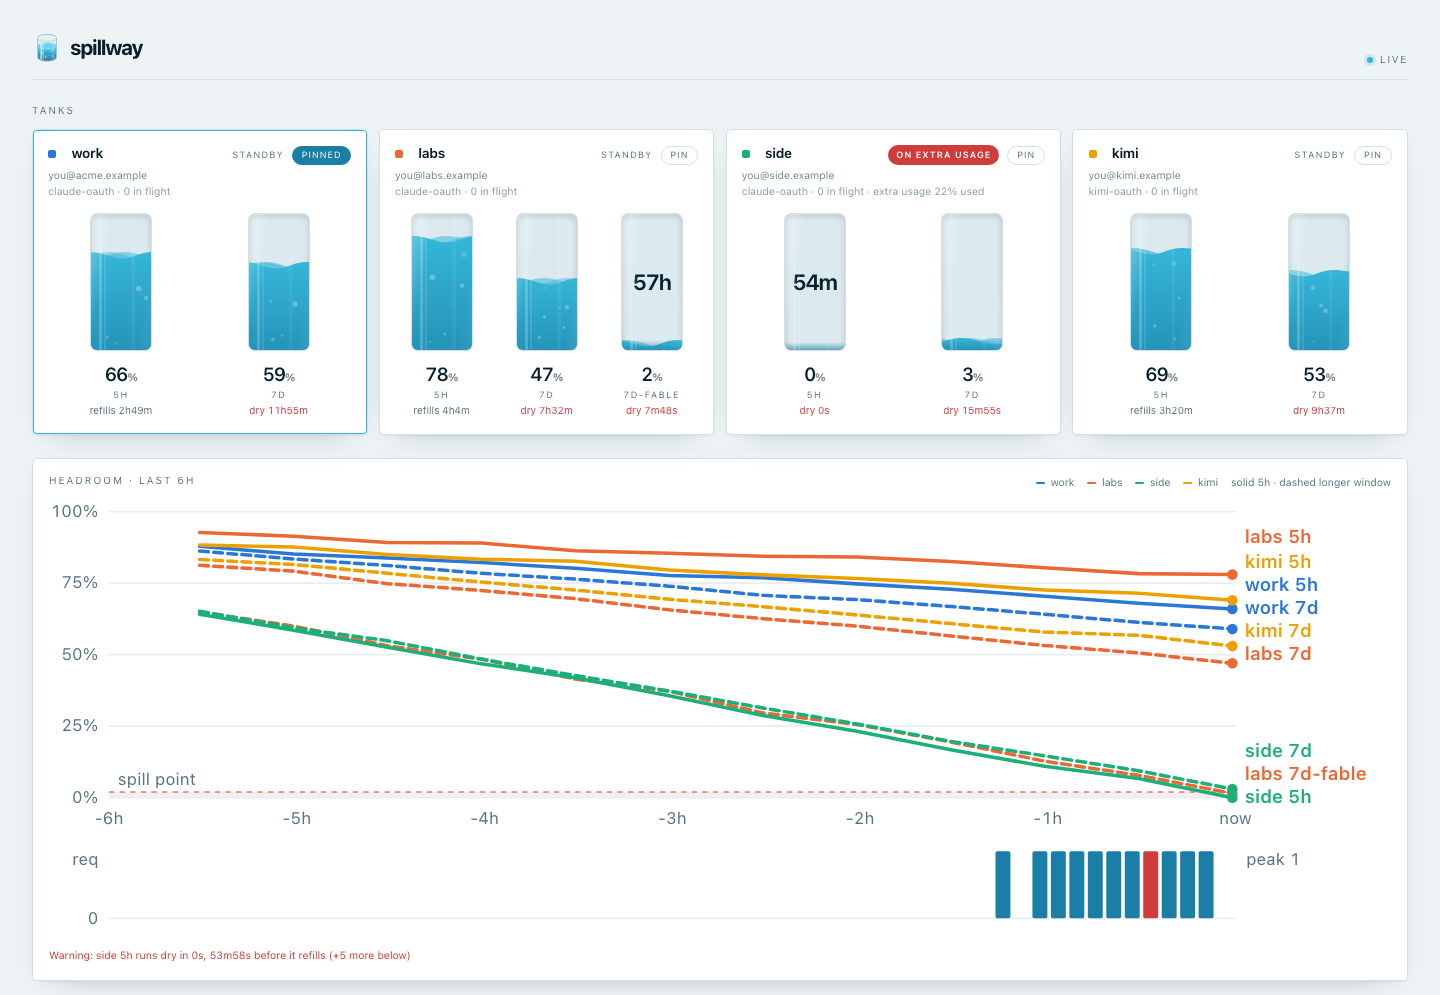
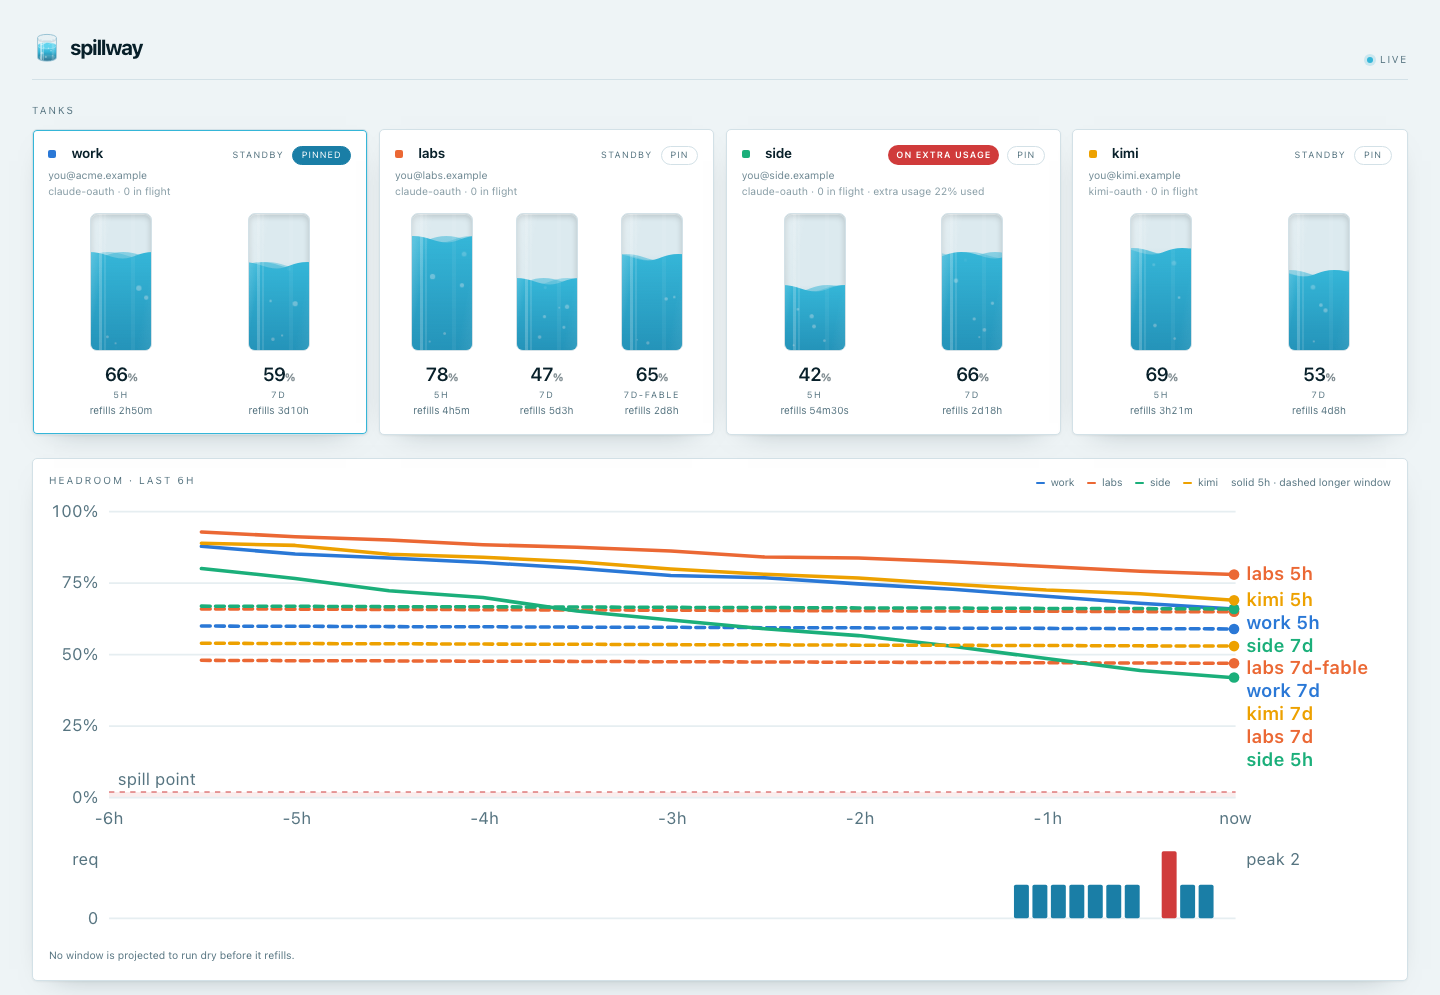
docs: rework healthy hero scenario, dodge chart label-collision bug
The healthy screenshot led with a dry account (side 5h at 0%, dry 0s) and
a red "runs dry" warning — undersells the product in the hero position.
side now stays on paid extra usage (a standing permission, honest even
while its quota has headroom) without its quota actually being spent, and
labs' 7d-fable window sits well under the switch threshold. seedQuotaHistory
now models long-cycle windows (7d, 7d-fable) with a near-flat recent
history instead of the same steep climb used for 5h: reading a big climb
against a multi-day reset is what produced the false "runs dry" alarm.

Also reproduced the chart label-collision bug the healthy image incidentally
exposed (dashboard-hold.png's "kimi 5h" label was clipped at the plot's top
edge): drawHeadroom's anti-overlap pass only cascades labels downward and
corrects overflow by shifting the whole set up, with no check that the
shift doesn't then push the topmost label off the top. Worked around it
here by keeping the hold scenario's Kimi figures closer to the exhausted
cluster (still healthy, just less of an outlier) rather than touching the
dashboard in a docs PR; the underlying bug is still there.

diff --git a/internal/admin/demo/main.go b/internal/admin/demo/main.go
@@ -172,9 +172,16 @@ func buildAccounts(now time.Time, hold bool) (work, labs, side, kimi *pool.Accou
 			Reason:      "extra usage exhausted for this billing period",
 			ResetAt:     now.Add(3 * 24 * time.Hour),
 		})
+		// Kept closer to the Claude cluster than the healthy scenario's
+		// Kimi figures (0.31/0.47 there): the chart's own label-collision
+		// bug (index.html's drawHeadroom, ~line 762 — reported upstream,
+		// not fixed here) pushes an isolated high-headroom label off the
+		// plot's top edge when several other series are bunched at zero.
+		// Still comfortably "ok" (nowhere near the 0.98 threshold) and
+		// still the healthiest account in the pool.
 		kimi.SetQuotaWindows([]pool.QuotaWindow{
-			{Name: "5h", Limit: 1, Used: 0.33, Source: "poll", ResetAt: now.Add(3*time.Hour + 20*time.Minute), FetchedAt: now},
-			{Name: "7d", Limit: 1, Used: 0.48, Source: "poll", ResetAt: now.Add(4*24*time.Hour + 9*time.Hour), FetchedAt: now},
+			{Name: "5h", Limit: 1, Used: 0.55, Source: "poll", ResetAt: now.Add(3*time.Hour + 20*time.Minute), FetchedAt: now},
+			{Name: "7d", Limit: 1, Used: 0.65, Source: "poll", ResetAt: now.Add(4*24*time.Hour + 9*time.Hour), FetchedAt: now},
 		})
 		return
 	}
@@ -186,19 +193,26 @@ func buildAccounts(now time.Time, hold bool) (work, labs, side, kimi *pool.Accou
 	labs.SetQuotaWindows([]pool.QuotaWindow{
 		{Name: "5h", Limit: 1, Used: 0.22, Source: "headers", ResetAt: now.Add(4*time.Hour + 6*time.Minute), FetchedAt: now},
 		{Name: "7d", Limit: 1, Used: 0.53, Source: "headers", ResetAt: now.Add(5*24*time.Hour + 4*time.Hour), FetchedAt: now},
-		// Over the 0.98 switch threshold: fableSpent, even though the
-		// account is otherwise healthy for Sonnet/Opus/Haiku.
-		{Name: "7d-fable", Limit: 1, Used: 0.985, Source: "headers", ResetAt: now.Add(2*24*time.Hour + 9*time.Hour), FetchedAt: now},
+		// Present so the per-family bucket is visible in a healthy pool,
+		// but well under the 0.98 switch threshold — a hero image should
+		// not lead with a spent bucket. The window going over threshold
+		// (fableSpent) is demonstrated by the -hold state instead.
+		{Name: "7d-fable", Limit: 1, Used: 0.35, Source: "headers", ResetAt: now.Add(2*24*time.Hour + 9*time.Hour), FetchedAt: now},
 	})
 	side.SetQuotaWindows([]pool.QuotaWindow{
-		{Name: "5h", Limit: 1, Used: 1, Source: "headers", ResetAt: now.Add(55 * time.Minute), FetchedAt: now},
-		{Name: "7d", Limit: 1, Used: 0.97, Source: "headers", ResetAt: now.Add(2*24*time.Hour + 19*time.Hour), FetchedAt: now},
+		{Name: "5h", Limit: 1, Used: 0.58, Source: "headers", ResetAt: now.Add(55 * time.Minute), FetchedAt: now},
+		{Name: "7d", Limit: 1, Used: 0.34, Source: "headers", ResetAt: now.Add(2*24*time.Hour + 19*time.Hour), FetchedAt: now},
 	})
-	// Subscription quota is gone (5h at 1.0) but extra usage is available
-	// and already in use — tier 3 from the README's overage table, the
-	// ordinary "paid" state rather than a crisis.
+	// Extra usage is available and permitted (CanOverage doesn't require
+	// the subscription quota to actually be spent — it's a standing
+	// permission, confirmed by the provider), so the "on extra usage"
+	// badge is honest even though this account's quota is currently
+	// healthy. OverageUsed > 0 while InUse is false: it was drawn on
+	// earlier in this billing period and that counter refills on its own
+	// slower cycle (README §Extra usage), not with the quota window that
+	// has since reset — not currently billing, just not starting from 0.
 	side.SetOverageForTest(provider.Overage{
-		Known: true, Available: true, InUse: true,
+		Known: true, Available: true, InUse: false,
 		Utilization: 0.22,
 		ResetAt:     now.Add(11 * 24 * time.Hour),
 	})
@@ -209,21 +223,46 @@ func buildAccounts(now time.Time, hold bool) (work, labs, side, kimi *pool.Accou
 	return
 }
 
-// historyStart is the used-fraction the seeded history starts at, low
-// enough to draw a rising trend into the account's live figure but never
-// above it: a history that starts above cur would draw usage falling on
-// its own within one quota window, which never happens — a window only
-// ever climbs until it resets, at which point spillway records a fresh
-// window rather than a dip in the old one. Without the second clamp, an
-// account whose live Used is very small (cur*0.35 below the 0.02 floor)
-// would get exactly that impossible dip.
-func historyStart(cur float64) float64 {
+// historyStartShort is the used-fraction the seeded history starts at for
+// a fast-cycling window (5h today), low enough to draw a visible rising
+// trend into the account's live figure but never above it: a history that
+// starts above cur would draw usage falling on its own within one quota
+// window, which never happens — a window only ever climbs until it
+// resets, at which point spillway records a fresh window rather than a
+// dip in the old one. Without the second clamp, an account whose live Used
+// is very small (cur*0.35 below the 0.02 floor) would get exactly that
+// impossible dip.
+func historyStartShort(cur float64) float64 {
 	start := cur * 0.35
 	if start < 0.02 {
 		start = 0.02
 	}
 	if start > cur {
 		start = cur
+	}
+	return start
+}
+
+// historyStartLong is the seeded starting point for a window whose reset
+// is days away (7d, 7d-fable, or anything else the demo doesn't
+// specifically know is fast-cycling). Two reasons it stays almost flat
+// rather than climbing the same 65% that historyStartShort draws:
+//
+//   - realism: a bucket that only resets every several days genuinely
+//     barely moves within the 5.5h of history seeded here.
+//   - the dashboard's burn-rate alarm (index.html's beatsReset) compares a
+//     projected dry time against the window's OWN reset, which for a 7d
+//     window is measured in days. Reading a 65%-over-5.5h climb into that
+//     projection makes almost any account look like it is about to run
+//     dry before refilling — which is what actually happened in the
+//     first cut of this demo (issue #72 review): a healthy pool's hero
+//     screenshot came out with a red "runs dry" banner. A small, mostly
+//     flat climb keeps the projected dry time safely past any multi-day
+//     reset instead.
+func historyStartLong(cur float64) float64 {
+	start := cur - 0.01
+	if start < 0 {
+		start = 0
 	}
 	return start
 }
@@ -246,10 +285,23 @@ func seedQuotaHistory(rl *reqlog.Log, now time.Time, accounts []*pool.Account) {
 				continue
 			}
 			cur := w.Used / w.Limit
-			start := historyStart(cur)
+			short := w.Name == "5h"
+			var start float64
+			if short {
+				start = historyStartShort(cur)
+			} else {
+				start = historyStartLong(cur)
+			}
 			for i := 0; i < points; i++ {
 				frac := float64(i) / float64(points-1)
-				used := start + (cur-start)*frac + (rnd.Float64()-0.5)*0.02
+				used := start + (cur-start)*frac
+				if short {
+					// Noise only where the slope is steep enough to carry
+					// it — on a long window it would swamp the deliberately
+					// tiny climb and reintroduce the false-alarm risk
+					// historyStartLong exists to avoid.
+					used += (rnd.Float64() - 0.5) * 0.02
+				}
 				if used < 0 {
 					used = 0
 				}

diff --git a/internal/admin/demo/main_test.go b/internal/admin/demo/main_test.go
@@ -2,21 +2,48 @@ package main
 
 import "testing"
 
-// TestHistoryStartNeverExceedsCurrent guards the one piece of real logic in
-// this command: the seeded quota history must climb into the account's live
-// Used, never start above it. A window's usage only ever climbs until its
-// own reset — a starting point above cur would draw an impossible dip on
-// the headroom chart for any account whose live figure is small enough to
-// hit the 0.02 floor before the *0.35 scale-down does.
+// TestHistoryStartNeverExceedsCurrent guards the invariant both seeded
+// starting points share: a history point may never exceed the account's
+// live Used. A window's usage only ever climbs until its own reset — a
+// starting point above cur would draw an impossible dip on the headroom
+// chart. historyStartShort needs its own clamp for this (cur*0.35 can land
+// below the 0.02 floor); historyStartLong is subtractive so it can't
+// overshoot on its own, but the invariant is checked on both so either can
+// be changed later without silently reintroducing the dip.
 func TestHistoryStartNeverExceedsCurrent(t *testing.T) {
 	cases := []float64{0, 0.005, 0.01, 0.02, 0.0571, 0.1, 0.34, 0.5, 0.985, 1}
 	for _, cur := range cases {
-		start := historyStart(cur)
-		if start > cur {
-			t.Errorf("historyStart(%v) = %v, want <= %v (a history point may not exceed the live figure)", cur, start, cur)
+		for _, fn := range []struct {
+			name string
+			f    func(float64) float64
+		}{
+			{"historyStartShort", historyStartShort},
+			{"historyStartLong", historyStartLong},
+		} {
+			start := fn.f(cur)
+			if start > cur {
+				t.Errorf("%s(%v) = %v, want <= %v (a history point may not exceed the live figure)", fn.name, cur, start, cur)
+			}
+			if start < 0 {
+				t.Errorf("%s(%v) = %v, want >= 0", fn.name, cur, start)
+			}
 		}
-		if start < 0 {
-			t.Errorf("historyStart(%v) = %v, want >= 0", cur, start)
+	}
+}
+
+// TestHistoryStartLongClimbIsSmall guards the reason historyStartLong
+// exists: a window whose reset is days away must climb only a little over
+// the seeded history, or the dashboard's burn-rate projection reads a
+// multi-day reset as about to be beaten and raises a false "runs dry"
+// alarm (what happened to this demo's own healthy-pool screenshot before
+// this fix — see historyStartLong's doc comment). A climb bigger than this
+// bound is exactly the regression that would reintroduce it.
+func TestHistoryStartLongClimbIsSmall(t *testing.T) {
+	const maxClimb = 0.011 // historyStartLong's intended 0.01, plus float slack
+	for _, cur := range []float64{0, 0.005, 0.01, 0.05, 0.34, 0.53, 0.985, 1} {
+		climb := cur - historyStartLong(cur)
+		if climb > maxClimb {
+			t.Errorf("historyStartLong(%v) climbs by %v, want <= %v (a bigger climb read against a multi-day reset false-alarms)", cur, climb, maxClimb)
 		}
 	}
 }

diff --git a/README.md b/README.md
@@ -10,15 +10,16 @@
 </p>
 
 <p align="center">
-  <img src="docs/images/dashboard-healthy.png" alt="spillway admin dashboard: four pooled accounts across Claude and Kimi, one pinned, one on paid extra usage, a headroom-over-time chart, and per-window exact figures" width="720">
+  <img src="docs/images/dashboard-healthy.png" alt="spillway admin dashboard: four pooled accounts across Claude and Kimi, one pinned, one permitted paid extra usage, and a headroom-over-time chart with a burn-rate projection" width="720">
 </p>
 
 The dashboard above (`internal/admin/demo` serves it over mock data —
 `go run ./internal/admin/demo`): four accounts across two providers, one
-pinned to keep a piece of work off the others, one drawing on paid extra
-usage once its subscription quota is gone, and a headroom curve per quota
-window with a burn-rate projection. See [Admin API + web UI](#admin-api--web-ui)
-below for what happens when the pool actually runs dry.
+pinned to keep a piece of work off the others, one permitted to draw on
+paid extra usage if its subscription quota ever runs out, and a headroom
+curve per quota window with a burn-rate projection. See
+[Admin API + web UI](#admin-api--web-ui) below for what the same pool looks
+like once it actually runs dry.
 
 Local, single-user daemon that proxies official AI CLIs (Claude Code, and any
 Anthropic-shaped endpoint) and rotates requests across a pool of **your own**
